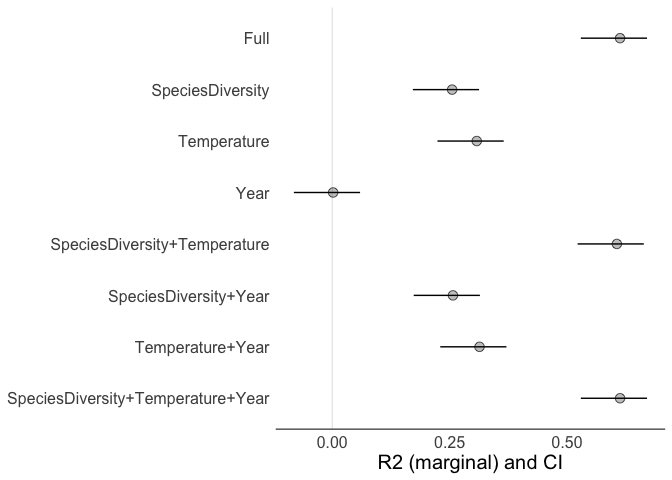
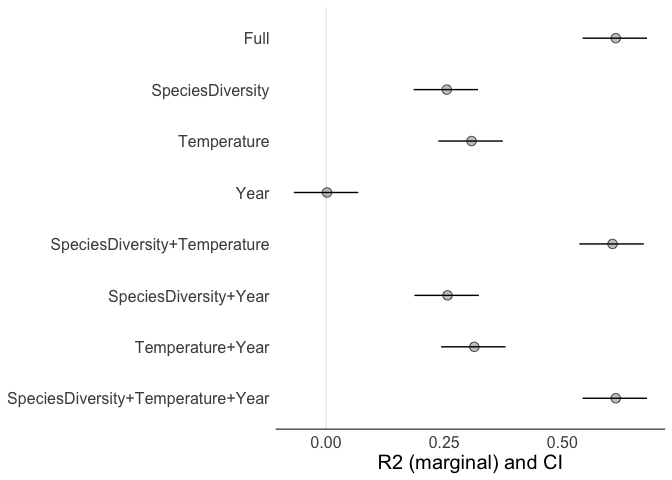
removed broom.mixed from var_comps

diff --git a/README.md b/README.md
@@ -9,17 +9,19 @@ The goal of partR2 is to provide a simple interface for commonality
 analyses (CA) in mixed models. CA partitions the overall R2 of a model
 into the components which are unique to each fixed effect and shared
 among combinations of them, which is interesting in itself and
-particularly useful in the case of multicollinearity. In addition to
-these partitioned R2’s the partR2 package calculates structure
+particularly useful in the case of multicollinearity.
+
+In addition to partial R2’s the partR2 package calculates structure
 coefficients (SC). SC show the correlation between a fixed effect and
 the predicted response and give an intuition of the contribution of that
 fixed effect to the model prediction, independent of all other
 predictors. Finally, partR2 also reports the model estimates (slopes and
-variances). All estimates can be combined with parametric bootstrapping
-to get confidence intervals.
+variances).
 
-partR2 is in an early phase of development and only works with lme4
-models at the moment.
+All estimates can be combined with parametric bootstrapping to get
+confidence intervals.
+
+partR2 is in an early phase of development and might still contain bugs.
 
 ## Installation
 
@@ -50,19 +52,19 @@ mod <- lmer(Biomass ~  Year + Temperature + SpeciesDiversity + (1|Population),
 #> 
 #> R2 (marginal) and CI (95%) for the full model: 
 #>  R2    CI_lower CI_upper
-#>  0.613 0.529    0.67    
+#>  0.613 0.543    0.679   
 #> 
 #> ----------
 #> 
 #> Partitioned R2s:
 #>  Predictor(s)                      R2     CI_lower CI_upper
-#>  SpeciesDiversity                  0.2552  0.172   0.313   
-#>  Temperature                       0.3076  0.224   0.365   
-#>  Year                              0.0017 -0.082   0.059   
-#>  SpeciesDiversity+Temperature      0.6060  0.522   0.663   
-#>  SpeciesDiversity+Year             0.2570  0.173   0.314   
-#>  Temperature+Year                  0.3135  0.230   0.371   
-#>  SpeciesDiversity+Temperature+Year 0.6129  0.529   0.670
+#>  SpeciesDiversity                  0.2552  0.185   0.321   
+#>  Temperature                       0.3076  0.237   0.374   
+#>  Year                              0.0017 -0.068   0.068   
+#>  SpeciesDiversity+Temperature      0.6060  0.536   0.672   
+#>  SpeciesDiversity+Year             0.2570  0.187   0.323   
+#>  Temperature+Year                  0.3135  0.243   0.380   
+#>  SpeciesDiversity+Temperature+Year 0.6129  0.543   0.679
 ```
 
 And to plot the results:
